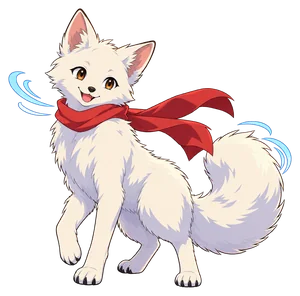
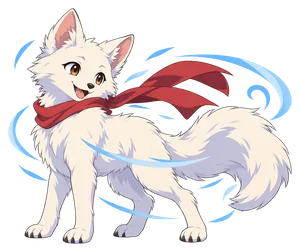
nw15: 整片插畫標頭、分頁縮小、路線小卡拿掉縮圖、換上天氣與小驚喜新動作
Claude-Session: https://claude.ai/code/session_01L8cC684gBamZh9mEE5ViaQ

diff --git a/index.html b/index.html
@@ -18,8 +18,8 @@ window.__repairApp=function(){var done=function(){var u=location.pathname+'?fres
 window.addEventListener('load',function(){setTimeout(function(){if(window.__appReady)return;var b=box();if(!b)return;b.innerHTML='<b>⚠ 網站程式沒有正常啟動</b><div style="margin:6px 0;font-size:13px;word-break:break-all">'+(window.__appReady?'':'主程式 app.js 沒有跑完。<br>')+errs.slice(0,5).map(function(x){return x.replace(/</g,'&lt;');}).join('<br>')+'<br><small>'+navigator.userAgent.replace(/</g,'')+'</small></div><button type="button" onclick="__repairApp()" style="width:100%;min-height:48px;border:0;border-radius:12px;background:#202848;color:#fff;font:inherit;font-weight:800">清除舊版快取並重新載入（資料不會刪除）</button><div style="margin-top:6px;font-size:13px">如果還是不行，請把這個畫面截圖傳給我。</div>';},2500);});
 })();</script>
 <link rel="manifest" href="manifest.webmanifest">
-<link rel="icon" type="image/png" sizes="64x64" href="images/favicon.png?v=nw14">
-<link rel="apple-touch-icon" href="images/apple-touch-icon.png?v=nw14">
+<link rel="icon" type="image/png" sizes="64x64" href="images/favicon.png?v=nw15">
+<link rel="apple-touch-icon" href="images/apple-touch-icon.png?v=nw15">
 <meta name="mobile-web-app-capable" content="yes">
 <meta name="apple-mobile-web-app-capable" content="yes">
 <meta name="apple-mobile-web-app-title" content="狐光漫遊">
@@ -33,8 +33,8 @@ window.addEventListener('load',function(){setTimeout(function(){if(window.__appR
 <link rel="preconnect" href="https://fonts.googleapis.com">
 <link rel="preconnect" href="https://fonts.gstatic.com" crossorigin>
 <link href="https://fonts.googleapis.com/css2?family=LXGW+WenKai+TC:wght@400;700&family=Noto+Serif+TC:wght@700;900&family=Noto+Sans+TC:wght@400;500;700&family=Huninn&family=Iansui&family=Cactus+Classical+Serif&family=Chiron+Hei+HK:wght@400;700&family=Caveat:wght@500;700&family=Cormorant+Garamond:ital,wght@1,600&display=swap" rel="stylesheet">
-<link rel="stylesheet" href="style.css?v=nw14">
-<link rel="stylesheet" href="splash.css?v=nw14">
+<link rel="stylesheet" href="style.css?v=nw15">
+<link rel="stylesheet" href="splash.css?v=nw15">
 </head>
 <body class="family-locked">
 <div id="norwaySplash" class="splash" hidden aria-label="狐光漫遊載入中">
@@ -50,7 +50,7 @@ window.addEventListener('load',function(){setTimeout(function(){if(window.__appR
     <div class="splash__title"><strong>狐光漫遊</strong><span>在峽灣慢行，等一場北方的光</span></div>
   </div>
 </div>
-<script src="splash.js?v=nw14"></script>
+<script src="splash.js?v=nw15"></script>
 
 <div id="familyGate" class="family-gate" aria-hidden="false">
   <div class="family-gate-card">
@@ -106,10 +106,10 @@ window.addEventListener('load',function(){setTimeout(function(){if(window.__appR
       </div>
     </div>
     <div class="header-title">
-      <div class="eyebrow">NORWAY · 2027</div>
+      <div class="eyebrow">Arctic Fox, Fjords &amp; Northern Lights</div>
       <h1>狐光漫遊</h1>
+      <p class="nw-hero-sub">在峽灣慢行，等一場北方的光。</p>
     </div>
-    <p class="nw-hero-sub">在峽灣慢行，等一場北方的光。</p>
     <button type="button" class="nw-hero-dates" id="headerDates" onclick="openToolsSheet();setTimeout(()=>document.getElementById('tripDateCard')?.scrollIntoView({behavior:'smooth',block:'center'}),150)" aria-label="旅程日期，點了可以修改出發日"></button>
     <div class="preview-note">單機預覽：資料只存在這台裝置</div>
     <span id="spotCount" hidden>--</span>
@@ -355,8 +355,8 @@ window.addEventListener('load',function(){setTimeout(function(){if(window.__appR
 
 <input type="file" id="restoreFile" accept="application/json,.json" style="display:none" onchange="restoreBackupFile(event)">
 
-<script src="config.js?v=nw14"></script>
-<script src="app.js?v=nw14"></script>
+<script src="config.js?v=nw15"></script>
+<script src="app.js?v=nw15"></script>
 
 </body>
 </html>

diff --git a/style.css b/style.css
@@ -3047,3 +3047,22 @@ html body .nw-daycard .region{word-break:normal!important;overflow-wrap:normal!i
 html body .nw-daycard .ndc-text>*{text-shadow:0 0 6px #fff,0 0 12px #fff;}
 .ndc-text{padding-bottom:46px!important;}
 body.large-text .nw-daycard .nw-route-card .nrc-img{width:76px!important;height:52px!important;}
+
+/* nw15：標頭改成整片插畫（羚羊版型）：字在左、呆維在右下完整露出；上方用同一張圖的模糊延伸成天空 */
+html body .header.nw-hero{--hh:auto;min-height:clamp(360px,96vw,440px)!important;background:#1E2552!important;border-radius:0 0 28px 28px!important;overflow:hidden!important;}
+html body .nw-hero::before{content:"";display:block!important;position:absolute;inset:-30px;z-index:0;background:url(images/header.webp) 70% 0/cover no-repeat;filter:blur(22px) saturate(1.15);opacity:.9;}
+html body .nw-hero .nw-hero-img{inset:auto auto 0 -40%!important;width:165%!important;height:auto!important;object-fit:contain!important;object-position:0 100%!important;border-radius:0!important;
+  -webkit-mask-image:linear-gradient(180deg,transparent 0,#000 22%);mask-image:linear-gradient(180deg,transparent 0,#000 22%);}
+html body .nw-hero::after{height:auto!important;bottom:0!important;border-radius:0!important;background:linear-gradient(180deg,rgba(14,18,44,.45) 0,rgba(14,18,44,0) 22%),linear-gradient(90deg,rgba(14,18,44,.55) 0,rgba(14,18,44,.15) 50%,rgba(14,18,44,0) 62%),linear-gradient(0deg,rgba(14,18,44,.55) 0,rgba(14,18,44,0) 30%)!important;}
+html body .nw-hero .header-title{top:calc(78px + env(safe-area-inset-top,0px))!important;bottom:auto!important;left:22px!important;right:22px!important;}
+html body .nw-hero .eyebrow{font-family:var(--script)!important;font-style:italic!important;font-size:min(4.6vw,19px)!important;letter-spacing:.02em!important;color:#fff!important;margin:0 0 6px!important;text-transform:none!important;}
+html body .nw-hero h1{font-size:min(14vw,60px)!important;}
+html body .nw-hero .nw-hero-sub{position:static!important;display:inline-block!important;margin:14px 0 0 -6px!important;padding:6px 16px!important;border-radius:999px!important;background:rgba(14,18,44,.45)!important;backdrop-filter:blur(4px)!important;-webkit-backdrop-filter:blur(4px)!important;color:#fff!important;font-size:min(4.2vw,16px)!important;letter-spacing:.12em!important;white-space:nowrap;text-shadow:none!important;}
+html body .nw-hero .nw-hero-dates{bottom:26px!important;color:#fff!important;text-shadow:0 0 2px rgba(10,14,40,.9),0 1px 10px rgba(10,14,40,.7)!important;}
+html body .nw-hero .nw-hero-dates .hd-range{font-size:min(8vw,32px)!important;}
+html body .nw-hero .nw-hero-dates .hd-range i{background:#fff!important;}
+html body .nw-hero .nw-hero-dates small{color:rgba(255,255,255,.88)!important;}
+html body .nw-hero .preview-note{color:rgba(255,255,255,.8)!important;}
+/* 分頁列（行程／天氣／交通／路線／吃逛）縮小 */
+html body #dayTools .day-tool{font-size:14.5px!important;padding-top:8px!important;padding-bottom:8px!important;letter-spacing:.08em!important;}
+html body #dayTools{margin-top:8px!important;}

diff --git a/app.js b/app.js
@@ -2034,7 +2034,7 @@ function renderDayContent(){
       <div class="region">${escHtml(v.title)}</div>
       <h2>${escHtml(v.dayDesc)}</h2>
       </div></div>
-      <div class="nw-route-card"><img class="nrc-img" src="${escAttr(v.img)}" alt="D${d.dayNum} ${escAttr(v.title)}" width="96" height="96" loading="lazy" decoding="async"><div class="nrc-copy"><strong>${escHtml(v.region).split(' → ').join(' <i>→</i> ')}</strong>${v.enRegion&&v.enRegion.replace(/\s/g,'')!==String(v.region||'').replace(/\s/g,'')?`<small class="nrc-en">${escHtml(v.enRegion)}</small>`:''}${v.wear?`<small class="nrc-wear">${escHtml(v.wear)}</small>`:''}</div></div>
+      <div class="nw-route-card"><div class="nrc-copy"><strong>${escHtml(v.region).split(' → ').join(' <i>→</i> ')}</strong>${v.enRegion&&v.enRegion.replace(/\s/g,'')!==String(v.region||'').replace(/\s/g,'')?`<small class="nrc-en">${escHtml(v.enRegion)}</small>`:''}${v.wear?`<small class="nrc-wear">${escHtml(v.wear)}</small>`:''}</div></div>
       ${stripFactsHTML(v)}
       ${dayChoiceHTML(v)}
       ${swapNote}
@@ -2889,7 +2889,7 @@ window.addEventListener('offline', updateNetStatus);
 /* ============ Service Worker（離線快取整個網頁） ============ */
 if (navigator.serviceWorker) {
   window.addEventListener('load', () => {
-    navigator.serviceWorker.register('./sw.js?v=75').then(()=>navigator.serviceWorker.ready).catch(()=>{});
+    navigator.serviceWorker.register('./sw.js?v=76').then(()=>navigator.serviceWorker.ready).catch(()=>{});
   });
 }
 document.addEventListener('error',e=>{if(e.target?.tagName==='IMG')imageErrorFallback(e.target);},true);
@@ -3391,7 +3391,7 @@ const TENKI_LINKS={
 /* =====================================================================
    v48：收藏／預約狀態／提醒、自駕即時路況、版本與同步比對
    ===================================================================== */
-const APP_VERSION='nw14-2026-10-12';
+const APP_VERSION='nw15-2026-10-12';
 
 /* ---------- 收藏 ★／預約狀態／提醒 ---------- */
 let marksStore=(()=>{try{const v=JSON.parse(localStorage.getItem('norway_marks'));return v&&typeof v==='object'&&!Array.isArray(v)?v:{};}catch(e){return {};}})();

diff --git a/sw.js b/sw.js
@@ -1,5 +1,5 @@
 /* 狐光漫遊（挪威）：App Shell、圖片與已瀏覽內容離線快取 */
-const CACHE_VERSION='norway-trip-nw14';
+const CACHE_VERSION='norway-trip-nw15';
 const SHELL_CACHE=`norway-shell-${CACHE_VERSION}`;
 const RUNTIME_CACHE=`norway-runtime-${CACHE_VERSION}`;
 /* 圖片快取獨立於版本：更新網站不會清掉已下載的圖片，也不必重新下載 */

diff --git a/README.md b/README.md
@@ -4,6 +4,13 @@
 
 由「雪羽慢旅（北海道版 hk26）」移植而來，功能沿用：家人同步、離線 PWA、開場動畫、每日交通、住宿卡、收藏與預約、出發前待辦、每日回顧、MaMa 筆記、角落小驚喜、備份與快照。內容換成挪威 20 天行程，風格換成靛藍夜色＋暖杏橘＋極光青綠。
 
+## nw15（整片插畫標頭、分頁縮小、呆維新動作）
+
+1. 首頁標頭改成整片插畫版型：英文副題「Arctic Fox, Fjords & Northern Lights」、手寫「狐光漫遊」、半透明膠囊副標都在左上；日期在左下；呆維在右下完整露出。插畫上方用同一張圖的模糊延伸成天空。
+2. 每日的「行程／天氣／交通／路線／吃逛」分頁字縮小。
+3. 每日路線小卡拿掉縮圖，只留路線、英文地名與穿搭提醒。
+4. 換上天氣 9 張、小驚喜 8 張新動作（含之前缺的「歡迎」）。
+
 ## nw14（開場動畫、標頭、每日圖卡）
 
 1. 修正開場動畫三張呆維疊在一起：圖片的 class 名稱和樣式表對不上，三張同時顯示；現在一次只播一款。
